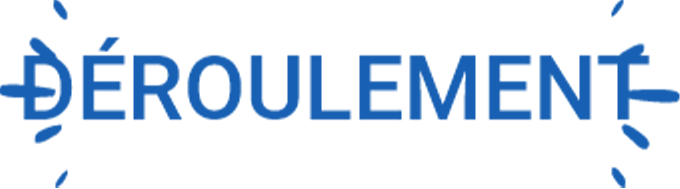
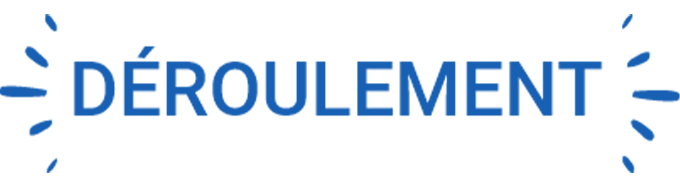
correções chap3

diff --git a/chap3/css/chapter-5-backcasting-768-all-breakpoints.css b/chap3/css/chapter-5-backcasting-768-all-breakpoints.css
@@ -176,21 +176,19 @@
 }
 
 .chapter-5-backcasting-1280 .pre-exercise-1 {
-  height: 21px;
   left: 602px;
-  object-fit: cover;
   position: absolute;
-  top: 2206px;
+  top: 2185px;
   width: 108px;
+  height: auto;
 }
 
 .chapter-5-backcasting-1280 .post-exercise-1 {
-  height: 21px;
   left: 602px;
-  object-fit: cover;
   position: absolute;
-  top: 2850px;
-  width: 114px;
+  top: 2825px;
+  width: 130px;
+  height: auto;
 }
 
 .chapter-5-backcasting-1280 .grupo-3406 {
@@ -769,21 +767,19 @@
 }
 
 .chapter-5-backcasting-1920 .pre-exercise {
-  height: 21px;
   left: 828px;
-  object-fit: cover;
   position: absolute;
-  top: 2205px;
+  top: 2185px;
   width: 108px;
+  height: auto;
 }
 
 .chapter-5-backcasting-1920 .post-exercise {
-  height: 21px;
   left: 828px;
-  object-fit: cover;
   position: absolute;
-  top: 2937px;
+  top: 2915px;
   width: 114px;
+  height: auto;
 }
 
 .chapter-5-backcasting-1920 .x10-minutes {
@@ -1391,7 +1387,6 @@
 .chapter-5-backcasting-375 .pre-exercise-3 {
   height: 34px;
   left: 488px;
-  object-fit: cover;
   position: absolute;
   top: 2984px;
   width: 69px;
@@ -1400,7 +1395,6 @@
 .chapter-5-backcasting-375 .postexercise {
   height: 34px;
   left: 488px;
-  object-fit: cover;
   position: absolute;
   top: 3642px;
   width: 69px;
@@ -1880,12 +1874,11 @@
 }
 
 .chapter-5-backcasting-768-all-breakpoints .pre-exercise-2 {
-  height: 21px;
   left: 59px;
-  object-fit: cover;
   position: absolute;
-  top: 17px;
+  top: 0px;
   width: 108px;
+  height: auto;
 }
 
 .chapter-5-backcasting-768-all-breakpoints .step-1organise-and-a-2 {
@@ -1982,12 +1975,11 @@
 }
 
 .chapter-5-backcasting-768-all-breakpoints .post-exercise-2 {
-  height: 21px;
   left: 59px;
-  object-fit: cover;
   position: absolute;
-  top: 17px;
+  top: 0px;
   width: 114px;
+  height: auto;
 }
 
 .chapter-5-backcasting-768-all-breakpoints .step-4collect-all-li-2 {
